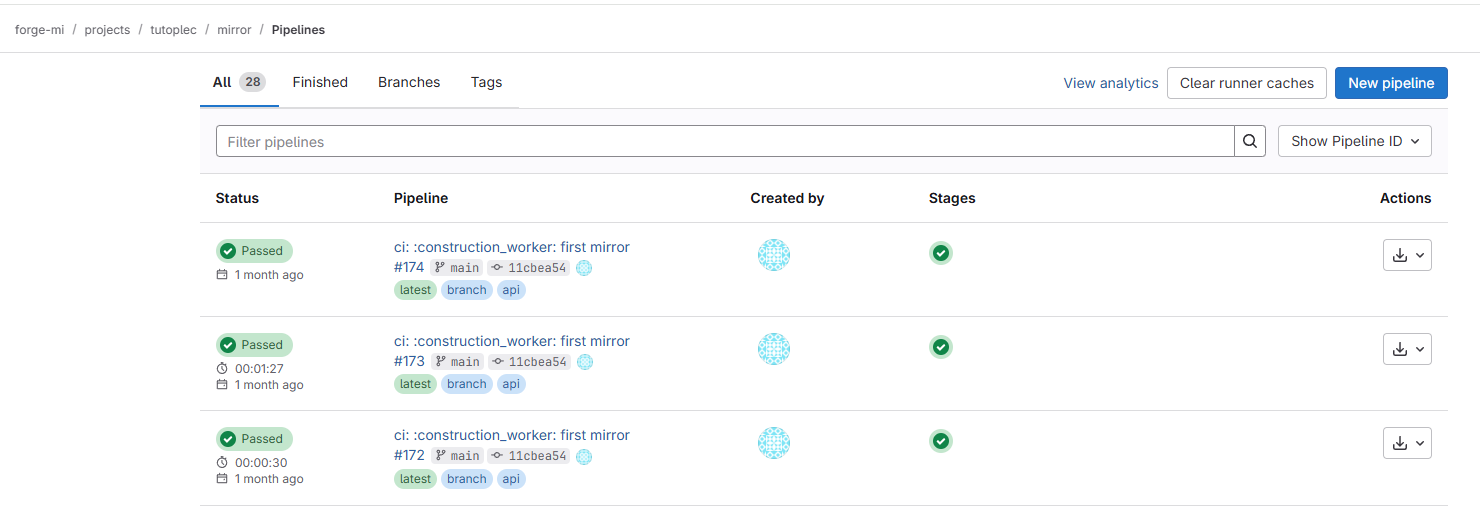
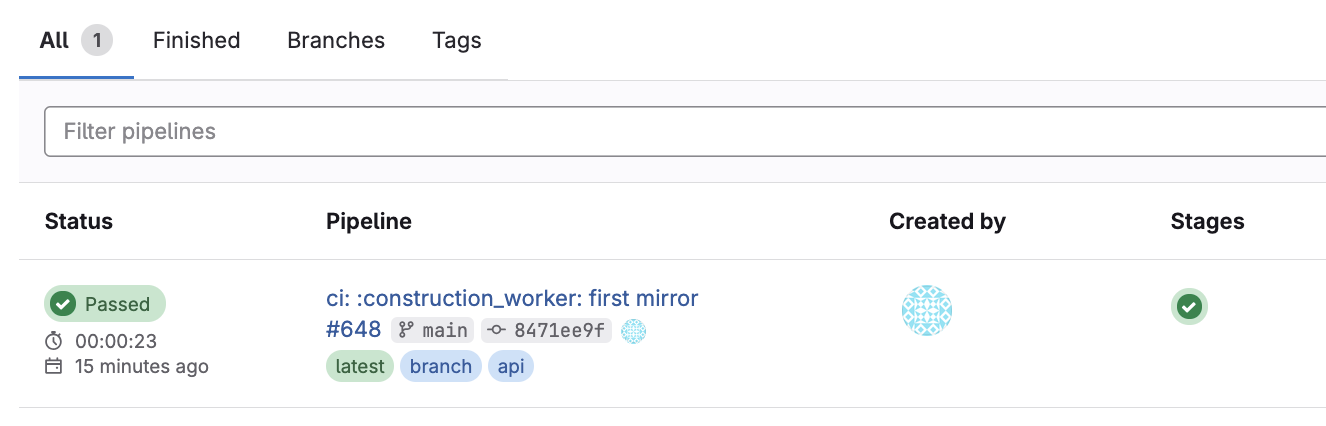
chore: update screenshots

diff --git a/README.md b/README.md
@@ -87,7 +87,7 @@ Ce groupe contient différents dépôts :
 
 Exemple :
 
-![repos](./img/repo-gitlab.jpg)
+![repos](./img/repo-gitlab.png)
 
 ### Synchronisation des dépôts
 
